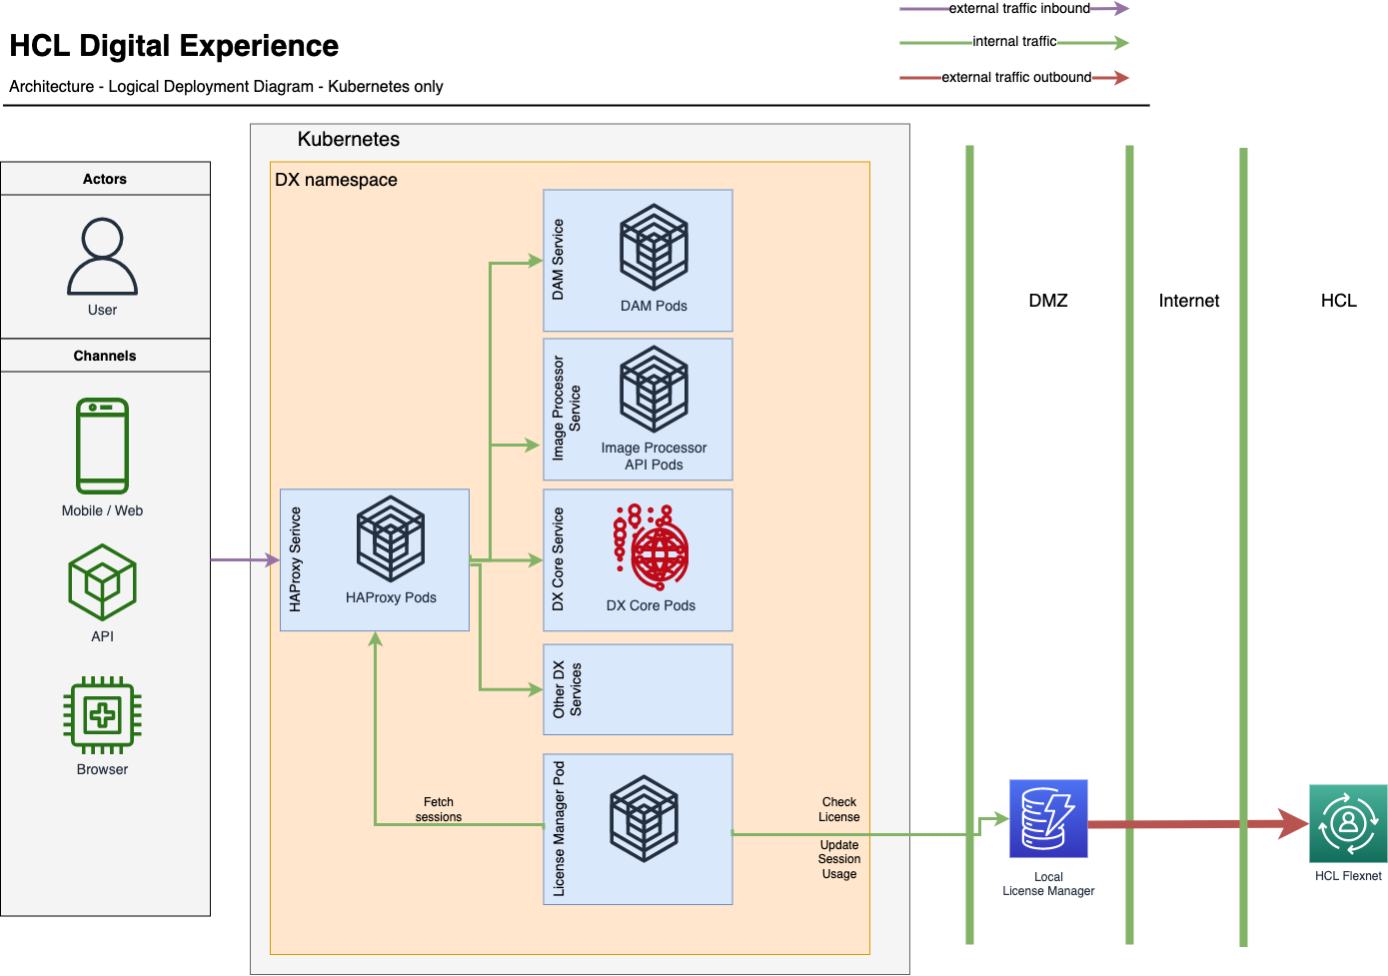
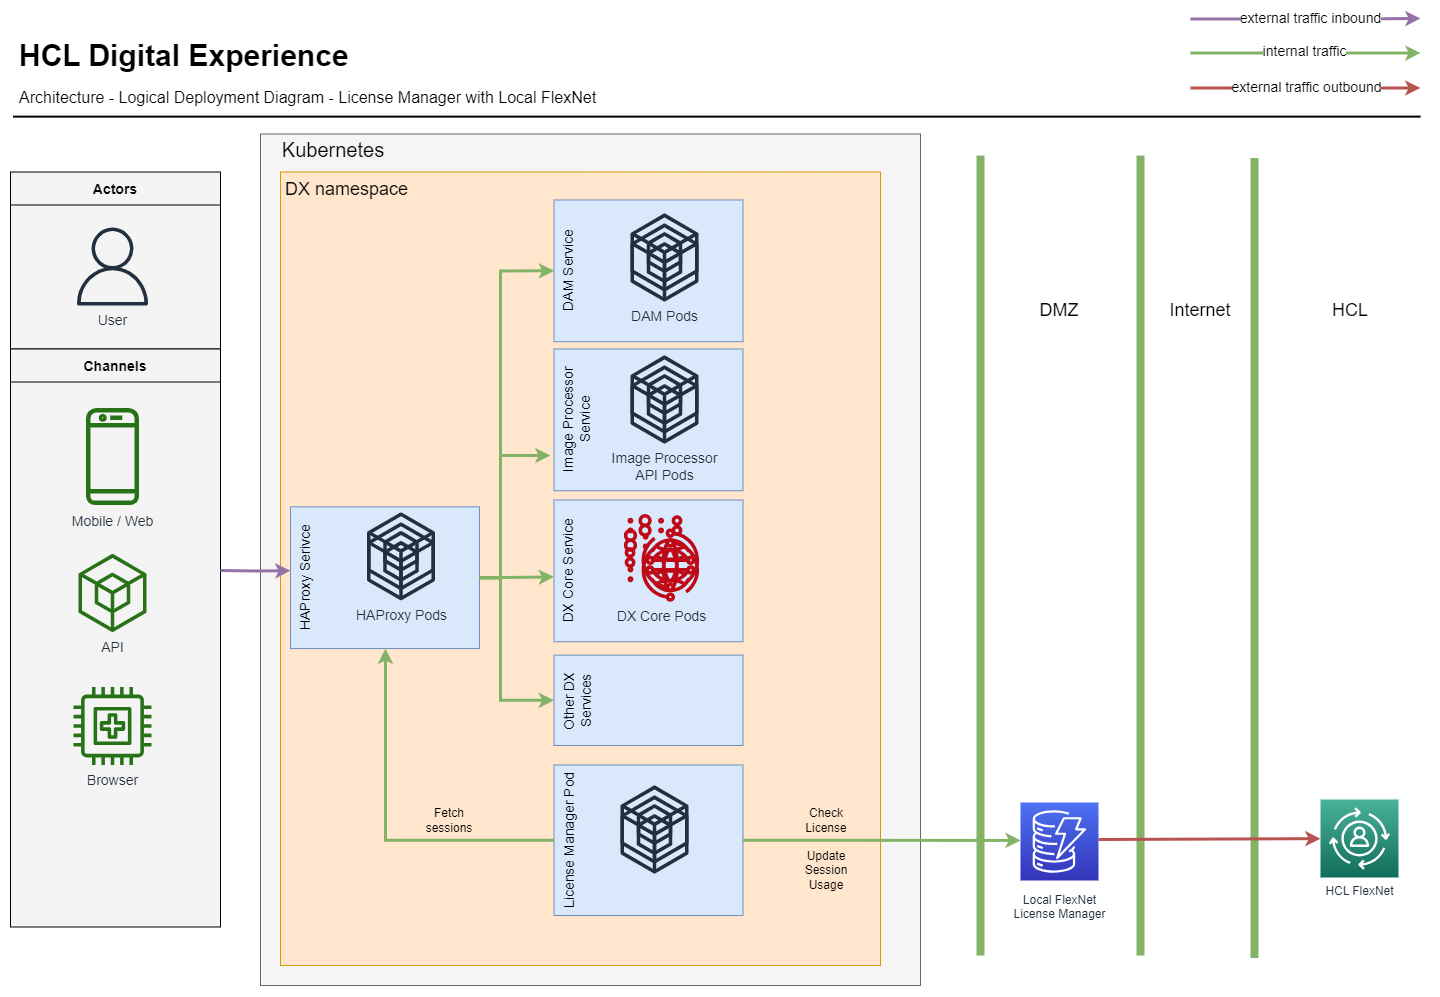
Updated architecture diagrams

diff --git a/docs/get_started/download/software_licensing_portal/configure_entitlement_checks/configuring_mhs_and_file_based_export.md b/docs/get_started/download/software_licensing_portal/configure_entitlement_checks/configuring_mhs_and_file_based_export.md
@@ -22,8 +22,7 @@ Review the architecture that presents the License Manager component of HCL DX v9
 ## Architecture
 The License Manager component communicates with the My HCLSoftware entitlement service, to validate license entitlement at set periods for HCL Digital Experience Cloud Native V9.5 Tier 1 – 7 software after you configure it via the DX Cloud Native 9.5 deployment Helm chart. The License Manager component also transmits user session consumption from your production DX Cloud Native 9.5 deployment(s) to the My HCLSoftware usage reporting services.
 
-**UPDATED DIAGRAM WITH MYMHS**
-![](../../software_licensing_portal/_img/DX_95_container_update_software_architecture_license_manager_component.png) 
+![](../../software_licensing_portal/_img/DX_95_container_license_manager_arch_mhs.png) 
 
 Follow the configuration steps in the following procedure before you deploy a new or update an existing DX 9.5 Container deployment. By completing these steps, you configure the DX Cloud Native 9.5 Tier 1 – 7 deployment a Helm chart and enable the License Manager entitlement-checking functions.  
 

diff --git a/docs/get_started/download/software_licensing_portal/configure_entitlement_checks/flexnet_license_and_delivery.md b/docs/get_started/download/software_licensing_portal/configure_entitlement_checks/flexnet_license_and_delivery.md
@@ -15,7 +15,7 @@ Review the architecture that presents the License Manager component of HCL DX v9
 ## Architecture
 The License Manager component communicates with the HCL FlexNet server to validate license entitlement at set periods for HCL Digital Experience Cloud Native V9.5 Tier 1 – 7 software after you configure it via the DX Cloud Native 9.5 deployment Helm chart. The License Manager component also transmits user session consumption from your production DX Cloud Native 9.5 deployments to their specific FlexNet entitlements dashboard.
 
-![](../../software_licensing_portal/_img/DX_95_container_update_software_architecture_license_manager_component.png)
+![](../../software_licensing_portal/_img/DX_95_container_license_manager_arch_flexnet.png)
 
 Follow the configuration steps in the following procedure before you deploy a new or update an existing DX 9.5 Container deployment. By completing these steps, you configure the DX Cloud Native 9.5 Tier 1 – 7 deployment a Helm chart and enable the License Manager entitlement-checking functions.  
 

diff --git a/docs/get_started/download/software_licensing_portal/configure_entitlement_checks/configuring_local_flexnet_entitlement_server.md b/docs/get_started/download/software_licensing_portal/configure_entitlement_checks/configuring_local_flexnet_entitlement_server.md
@@ -33,7 +33,7 @@ By having the offline version of the HCL FlexNet Embedded License Server, a loca
 
 The License Manager component communicates with the local license server to validate license entitlement periods for HCL Digital Experience Cloud Native V9.5 Tier 1 – 7 software configured for production use. The local license server stores user session consumption from the customer’s production DX Cloud Native 9.5 deployments and synchronizes that data from the local license server copy to the FlexNet License Portal Server for HCL when those connections are periodically established. 
 
-![Architecture](../_img/architecture_logical_deployment_kube.png)
+![Architecture](../_img/DX_95_container_local_license_manager_support_arch.png)
 
 ## Install and configure the local FlexNet entitlement server
 
